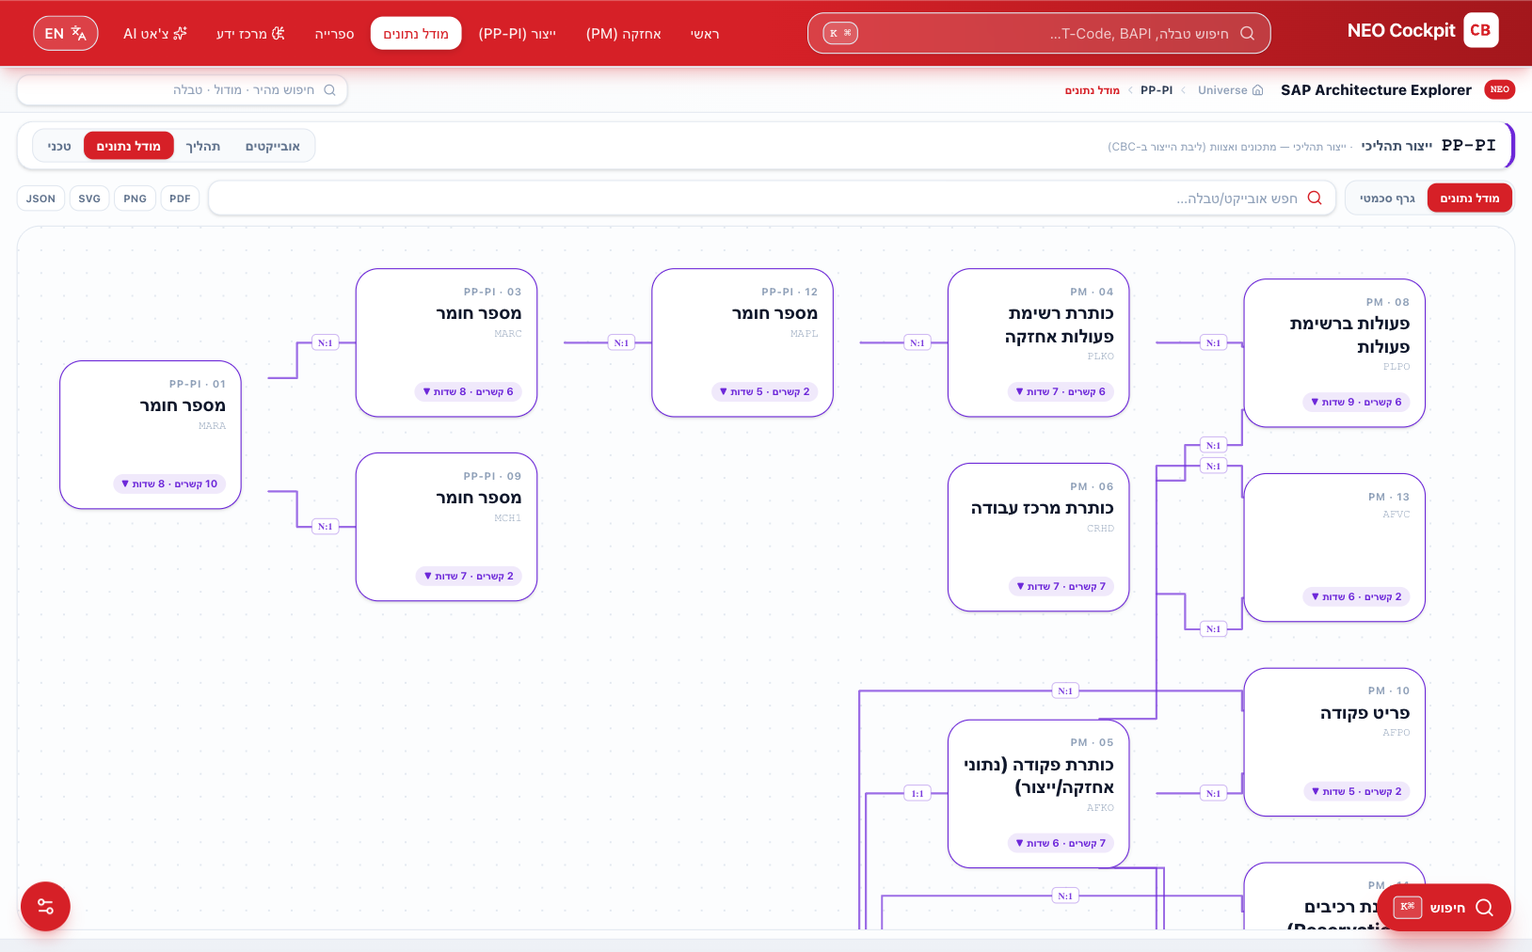
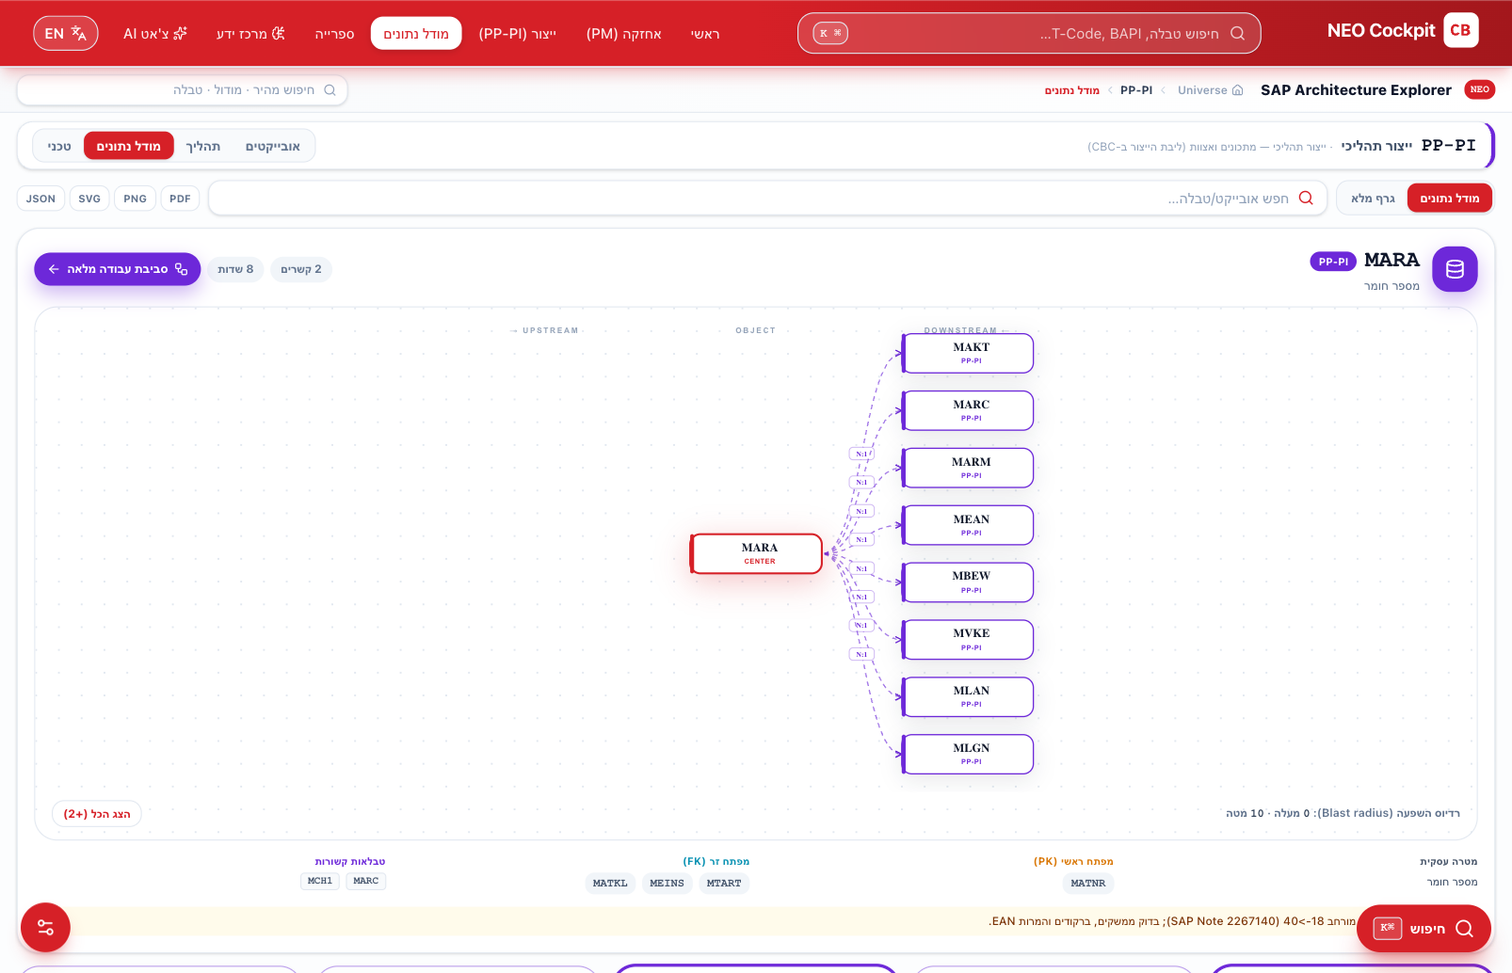
data-model: match Object-page quality — centered relationship graph
Reuse the Object page's relationship map as the Data Model's primary view
(one shared visual language, no new one):
- new components/relationship-graph.tsx (extracted, premium nodes): centered
  UPSTREAM → OBJECT → DOWNSTREAM, clean dashed arrows, 1:1 / N:1 labels,
  blast-radius caption — no scattered layout
- focus panel: selected table header + the centered graph + business purpose +
  PK/FK + related tables + "full workspace" (drawer)
- premium Object-style card picker below; selecting highlights the table +
  related, dims the rest; click a selected card → full Object drawer (L3);
  clicking a graph node re-centers
- drop dagre scatter layout
Verified PP + PP-PI · 0 console errors · build clean · 0 external.

diff --git a/app/sap-infrastructure/page.tsx b/app/sap-infrastructure/page.tsx
@@ -4,7 +4,7 @@ import { useEffect, useMemo, useRef, useState, useCallback } from "react";
 import { Search, ChevronLeft, Home, ZoomIn, ZoomOut, X, KeyRound, Link2, Expand, Shrink, Scan, Maximize2, GripVertical, ArrowLeft, Hand, ChevronDown, Database, GitBranch, Workflow } from "lucide-react";
 import { MOD_PURPOSE, MOD_FLOW, MOD_REPORTS, genExampleRecords, ERD_MODULES, TECH_FIELDS, FIELDS_PLUS, OBJECTS } from "./meta";
 import { Highlight } from "@/components/highlight";
-import dagre from "dagre";
+import { RelationshipGraph } from "@/components/relationship-graph";
 
 const BASE = "/sap-infrastructure";
 type Field = [string, string, string, string];
@@ -277,140 +277,92 @@ type Mode = typeof MODES[number][0];
 const orderFields = (tf: Field[]) => [...tf.filter((f) => f[3] === "PK"), ...tf.filter((f) => f[3] === "FK"), ...tf.filter((f) => f[3] !== "PK" && f[3] !== "FK")];
 
 /* ===================== DATA MODEL — Object Explorer (square cards + relationship map) ===================== */
-type Line = { x1: number; y1: number; x2: number; y2: number };
-const CARDW = 176, CARDH = 144; // w-44 h-36
-type ErdEdge = { a: string; b: string; points: { x: number; y: number }[]; label: string };
-// professional layered ERD layout via dagre (parent→child, crossing-minimised, orthogonal routing)
-function erdLayout(nodes: string[], rels: { a: string; b: string; label: string }[]) {
-  const g = new dagre.graphlib.Graph();
-  g.setGraph({ rankdir: "LR", nodesep: 34, ranksep: 110, marginx: 40, marginy: 40, ranker: "network-simplex" });
-  g.setDefaultEdgeLabel(() => ({}));
-  nodes.forEach((n) => g.setNode(n, { width: CARDW, height: CARDH }));
-  const seen = new Set<string>(); const meta: Record<string, string> = {};
-  rels.forEach(({ a, b, label }) => { if (a === b || !g.hasNode(a) || !g.hasNode(b)) return; const k = a + "" + b; if (seen.has(k)) return; seen.add(k); meta[k] = label; g.setEdge(a, b); });
-  dagre.layout(g);
-  const pos: Record<string, { x: number; y: number }> = {};
-  nodes.forEach((n) => { const nd = g.node(n); if (nd) pos[n] = { x: nd.x - CARDW / 2, y: nd.y - CARDH / 2 }; });
-  const gg = g.graph();
-  const edges: ErdEdge[] = g.edges().map((e) => { const ed = g.edge(e); return { a: e.v, b: e.w, points: (ed.points || []) as { x: number; y: number }[], label: meta[e.v + "" + e.w] || "" }; });
-  return { pos, w: Math.ceil(gg.width || 800) + 20, h: Math.ceil(gg.height || 600) + 20, edges };
-}
-// orthogonal (step) path through dagre waypoints — ERWin/PowerDesigner look
-function orthoPath(pts: { x: number; y: number }[]) {
-  if (pts.length < 2) return "";
-  let d = `M${pts[0].x},${pts[0].y}`;
-  for (let i = 1; i < pts.length; i++) { const p = pts[i - 1], q = pts[i]; const mx = (p.x + q.x) / 2; d += ` L${mx},${p.y} L${mx},${q.y} L${q.x},${q.y}`; }
-  return d;
-}
+const CARDW = 176; // w-44
 
 function DataModelExplorer({ data, color, code, byName, onTable, erdMode, setErdMode }: { data: Data; color: (m?: string | null) => string; code: string; byName: Record<string, Tbl>; onTable: (t: string) => void; erdMode: string; setErdMode: (m: "cards" | "graph") => void }) {
   const c = color(code);
   const [q, setQ] = useState("");
-  const [open, setOpen] = useState<string | null>(null);
-  const [hover, setHover] = useState<string | null>(null);
-
   const all = useMemo(() => erdMembers(data, code).sort((a, b) => b.degree - a.degree), [data, code]);
   const s = q.trim().toLowerCase();
   const rows = useMemo(() => (s ? all.filter((t) => t.name.toLowerCase().includes(s) || (t.he || "").includes(q) || (t.en || "").toLowerCase().includes(s) || (t.tcodes || "").toLowerCase().includes(s)) : all), [all, s, q]);
   const present = useMemo(() => new Set(rows.map((t) => t.name)), [rows]);
   const relatedOf = useCallback((name: string) => { const t = byName[name]; return new Set((t?.rel || []).map((r) => r.table).filter((n) => present.has(n))); }, [byName, present]);
+  const [sel, setSel] = useState<string>(all[0]?.name || "");
+  useEffect(() => { if (!rows.find((t) => t.name === sel)) setSel(rows[0]?.name || ""); }, [rows, sel]);
 
-  // directed FK relations (parent→child) with cardinality labels
-  const rels = useMemo(() => {
-    const out: { a: string; b: string; label: string }[] = [];
-    rows.forEach((t) => (t.rel || []).forEach((r) => {
-      if (!present.has(r.table)) return;
-      const a = r.role === "parent" ? t.name : r.table; const b = r.role === "parent" ? r.table : t.name;
-      out.push({ a, b, label: cardKind(r.card || "1:N") });
-    }));
-    return out;
-  }, [rows, present]);
-  const layout = useMemo(() => erdLayout(rows.map((t) => t.name), rels), [rows, rels]);
-  // focus mode: clicking (open) or hovering a table highlights first-level neighbours only
-  const focusName = open || hover;
-  const focusSet = focusName ? new Set<string>([focusName, ...relatedOf(focusName)]) : null;
-  const related = focusName ? relatedOf(focusName) : null;
+  const selT = byName[sel];
+  const rel = sel ? relatedOf(sel) : new Set<string>();
+  const pk = selT ? selT.fields.filter((f) => f[3] === "PK") : [];
+  const fk = selT ? selT.fields.filter((f) => f[3] === "FK") : [];
 
   return (
-    <div className="space-y-2.5">
-      {/* single unified toolbar: mode toggle · search · exports */}
+    <div className="space-y-3">
+      {/* unified toolbar: mode toggle · search · exports */}
       <div className="flex flex-wrap items-center gap-2">
         <div className="inline-flex shrink-0 rounded-lg border border-slate-200 bg-slate-50 p-0.5">
           <button onClick={() => setErdMode("cards")} className={`rounded-md px-3 py-1.5 text-xs font-bold transition ${erdMode === "cards" ? "bg-[#d62027] text-white shadow-sm" : "text-slate-500 hover:text-slate-900"}`}>מודל נתונים</button>
-          <button onClick={() => setErdMode("graph")} className={`rounded-md px-3 py-1.5 text-xs font-bold transition ${(erdMode as string) === "graph" ? "bg-[#d62027] text-white shadow-sm" : "text-slate-500 hover:text-slate-900"}`}>גרף סכמטי</button>
+          <button onClick={() => setErdMode("graph")} className={`rounded-md px-3 py-1.5 text-xs font-bold transition ${(erdMode as string) === "graph" ? "bg-[#d62027] text-white shadow-sm" : "text-slate-500 hover:text-slate-900"}`}>גרף מלא</button>
         </div>
         <div className="flex min-w-[200px] flex-1 items-center gap-2 rounded-lg border border-slate-200 bg-white px-3 py-1.5 shadow-sm focus-within:border-[#d62027]/40">
           <Search className="size-4 shrink-0 text-[#d62027]" />
-          <input value={q} onChange={(e) => { setQ(e.target.value); setOpen(null); }} placeholder="חפש אובייקט/טבלה…" className="h-5 w-full bg-transparent text-sm outline-none placeholder:text-slate-400" />
+          <input value={q} onChange={(e) => setQ(e.target.value)} placeholder="חפש אובייקט/טבלה…" className="h-5 w-full bg-transparent text-sm outline-none placeholder:text-slate-400" />
           {q && <span className="shrink-0 rounded-md bg-[#d62027]/10 px-1.5 text-xs font-extrabold text-[#d62027]">{rows.length}</span>}
         </div>
         <ExportBar />
       </div>
 
-      {/* ERD canvas — auto graph layout */}
-      <div className="overflow-auto rounded-2xl border border-slate-200 bg-[radial-gradient(circle_at_1px_1px,#e2e8f0_1px,transparent_0)] [background-size:22px_22px]" style={{ maxHeight: "74vh" }}>
-        <div className="relative" style={{ width: layout.w, height: layout.h, minWidth: "100%" }}>
-          {/* FK connectors — orthogonal routing + cardinality labels */}
-          <svg className="pointer-events-none absolute inset-0" width={layout.w} height={layout.h} aria-hidden>
-            {layout.edges.map((e, i) => {
-              const pts = e.points; if (pts.length < 2) return null;
-              const on = focusName ? (e.a === focusName || e.b === focusName) : true;
-              const end = pts[pts.length - 1], prev = pts[pts.length - 2];
-              const ang = Math.atan2(end.y - prev.y, end.x - prev.x);
-              const mid = pts[Math.floor(pts.length / 2)];
-              return (
-                <g key={i} opacity={focusName ? (on ? 1 : 0.1) : 0.9}>
-                  <path d={orthoPath(pts)} fill="none" stroke={c} strokeWidth={on ? 2 : 1.3} strokeOpacity={on ? 0.75 : 0.5} strokeLinejoin="round" strokeLinecap="round" />
-                  {/* crow's-foot-ish arrow at child end */}
-                  <path d={`M${end.x},${end.y} L${end.x - 9 * Math.cos(ang - 0.45)},${end.y - 9 * Math.sin(ang - 0.45)} M${end.x},${end.y} L${end.x - 9 * Math.cos(ang + 0.45)},${end.y - 9 * Math.sin(ang + 0.45)}`} stroke={c} strokeWidth={on ? 2 : 1.3} fill="none" strokeLinecap="round" />
-                  {e.label && (on || !focusName) && <g><rect x={mid.x - 13} y={mid.y - 8} width={26} height={15} rx={4} fill="#fff" stroke={c} strokeOpacity={0.35} /><text x={mid.x} y={mid.y + 3} textAnchor="middle" style={{ font: "700 9px ui-monospace", fill: c }}>{e.label}</text></g>}
-                </g>
-              );
-            })}
-          </svg>
-
-          {rows.map((t, idx) => {
-            const pos = layout.pos[t.name]; if (!pos) return null;
-            const isOpen = open === t.name;
-            const pk = t.fields.filter((f) => f[3] === "PK"), fk = t.fields.filter((f) => f[3] === "FK");
-            const rels = t.rel || [];
-            const isRel = related?.has(t.name);
-            const dim = focusSet && !focusSet.has(t.name);
-            return (
-              <div key={t.name} style={{ position: "absolute", left: pos.x, top: pos.y, width: CARDW }}
-                onMouseEnter={() => !open && setHover(t.name)} onMouseLeave={() => setHover((h) => (h === t.name ? null : h))}
-                className={`${isOpen ? "z-30" : isRel ? "z-20" : "z-10"} transition-opacity duration-200 ${dim ? "opacity-40" : "opacity-100"}`}>
-                {/* L1 — card (design unchanged) */}
-                <button onClick={() => { setOpen(isOpen ? null : t.name); setHover(null); }}
-                  style={{ borderColor: c, ...((isOpen || isRel) ? ({ ["--tw-ring-color"]: c } as React.CSSProperties) : {}) }}
-                  className={`group flex h-36 w-44 flex-col rounded-2xl border bg-white p-3.5 text-right shadow-sm transition-all duration-300 hover:-translate-y-1 hover:shadow-lg ${isOpen || isRel ? "ring-2" : ""}`}>
-                  <span className="text-[10px] font-bold uppercase tracking-wider text-slate-400">{String(idx + 1).padStart(2, "0")} · {t.mod}</span>
-                  <span className="mt-0.5 line-clamp-2 text-lg font-extrabold leading-tight text-slate-900"><Highlight text={t.he || t.en} query={q} /></span>
-                  <span className="tech text-[11px] text-slate-400" dir="ltr"><Highlight text={t.name} query={q} /></span>
-                  <span className="mt-auto inline-flex items-center gap-1 self-start rounded-full px-2 py-0.5 text-[10px] font-bold" style={{ background: c + "1a", color: c }}>
-                    {rels.length} קשרים · {t.fields.length} שדות {isOpen ? "▲" : "▼"}
-                  </span>
-                </button>
-
-                {/* L2 — panel below card (design unchanged) */}
-                {isOpen && (
-                  <div className="absolute start-0 top-full z-40 mt-2 w-44 space-y-2 rounded-xl border border-slate-200 bg-white p-3 shadow-xl" style={{ animation: "fadeUp .3s ease both" }}>
-                    <Field2 label="מפתח ראשי (PK)" tone="#d97706">{pk.length ? pk.map((f) => <Chip2 key={f[0]} q={q}>{f[0]}</Chip2>) : <Dash />}</Field2>
-                    <Field2 label="מפתח זר (FK)" tone="#0891b2">{fk.length ? fk.map((f) => <Chip2 key={f[0]} q={q}>{f[0]}</Chip2>) : <Dash />}</Field2>
-                    <Field2 label="שדות עיקריים" tone="#475569">{t.fields.slice(0, 6).map((f) => <Chip2 key={f[0]} q={q}>{f[0]}</Chip2>)}</Field2>
-                    <Field2 label="קשרים" tone={c}>{rels.length ? rels.slice(0, 6).map((r) => (
-                      <button key={r.role + r.table} onClick={() => byName[r.table] && onTable(r.table)} className="tech rounded border border-slate-200 bg-slate-50 px-1.5 text-[10px] font-bold text-slate-600 transition hover:text-[#d62027]" dir="ltr">{r.role === "parent" ? "↓" : "↑"}<Highlight text={r.table} query={q} /></button>
-                    )) : <Dash />}</Field2>
-                    {t.s4 && <p className="line-clamp-2 rounded bg-amber-50 px-2 py-1 text-[10px] font-medium text-amber-900"><span className="font-bold">S/4: </span><Highlight text={t.s4} query={q} /></p>}
-                    <button onClick={() => onTable(t.name)} className="tap inline-flex w-full items-center justify-center gap-1 rounded-lg px-2.5 py-1.5 text-[11px] font-bold text-white shadow" style={{ background: c }}>
-                      <Workflow className="size-3" />סביבת עבודה מלאה<ArrowLeft className="size-3" />
-                    </button>
-                  </div>
-                )}
+      {/* FOCUS PANEL — Object-page quality relationship map for the selected table */}
+      {selT && (
+        <div className="space-y-3 rounded-2xl border border-slate-200 bg-white p-4 shadow-sm" style={{ animation: "fadeUp .3s ease both" }}>
+          <div className="flex flex-wrap items-center justify-between gap-3">
+            <div className="flex items-center gap-3">
+              <span className="grid size-11 place-items-center rounded-xl text-white shadow-lg" style={{ background: c, boxShadow: `0 8px 20px ${c}55` }}><Database className="size-5" /></span>
+              <div>
+                <div className="flex items-center gap-2"><span className="tech text-xl font-extrabold text-slate-900" dir="ltr">{sel}</span><span className="rounded-full px-2 py-0.5 text-[10px] font-bold text-white" style={{ background: c }}>{selT.mod}</span></div>
+                <p className="text-xs text-slate-500"><Highlight text={selT.he || selT.en} query={q} /></p>
               </div>
-            );
-          })}
+            </div>
+            <div className="flex items-center gap-1.5">
+              <span className="rounded-full bg-slate-100 px-2.5 py-1 text-[11px] font-bold text-slate-500">{rel.size} קשרים</span>
+              <span className="rounded-full bg-slate-100 px-2.5 py-1 text-[11px] font-bold text-slate-500">{selT.fields.length} שדות</span>
+              <button onClick={() => onTable(sel)} className="lift inline-flex items-center gap-1.5 rounded-xl px-3 py-2 text-xs font-bold text-white shadow-lg" style={{ background: c, boxShadow: `0 8px 18px ${c}55` }}><Workflow className="size-3.5" />סביבת עבודה מלאה<ArrowLeft className="size-3.5" /></button>
+            </div>
+          </div>
+
+          <RelationshipGraph name={sel} onGo={setSel} />
+
+          <div className="grid gap-3 lg:grid-cols-4">
+            <Field2 label="מטרה עסקית" tone="#475569"><span className="text-[11px] font-medium text-slate-600">{selT.he || selT.en}</span></Field2>
+            <Field2 label="מפתח ראשי (PK)" tone="#d97706">{pk.length ? pk.map((f) => <Chip2 key={f[0]} q={q}>{f[0]}</Chip2>) : <Dash />}</Field2>
+            <Field2 label="מפתח זר (FK)" tone="#0891b2">{fk.length ? fk.map((f) => <Chip2 key={f[0]} q={q}>{f[0]}</Chip2>) : <Dash />}</Field2>
+            <Field2 label="טבלאות קשורות" tone={c}>{rel.size ? [...rel].slice(0, 8).map((n) => (
+              <button key={n} onClick={() => setSel(n)} className="tech rounded border border-slate-200 bg-slate-50 px-1.5 text-[10px] font-bold text-slate-600 transition hover:text-[#d62027]" dir="ltr">{n}</button>
+            )) : <Dash />}</Field2>
+          </div>
+          {selT.s4 && <p className="rounded-lg bg-amber-50 px-2.5 py-1.5 text-[11px] font-medium text-amber-900"><span className="font-bold">ECC → S/4: </span><Highlight text={selT.s4} query={q} /></p>}
         </div>
+      )}
+
+      {/* TABLE PICKER — premium Object-style cards; selected + related highlighted, rest dimmed */}
+      <div className="grid grid-cols-2 gap-3 sm:grid-cols-3 lg:grid-cols-4 xl:grid-cols-5">
+        {rows.map((t, idx) => {
+          const isSel = t.name === sel;
+          const isRel = rel.has(t.name);
+          const dim = sel && !isSel && !isRel;
+          const rc = t.rel || [];
+          return (
+            <button key={t.name} onClick={() => (isSel ? onTable(t.name) : setSel(t.name))}
+              style={{ borderColor: c, ...((isSel || isRel) ? ({ ["--tw-ring-color"]: c } as React.CSSProperties) : {}) }}
+              className={`group flex h-36 w-full flex-col rounded-2xl border bg-white p-3.5 text-right shadow-sm transition-all duration-300 hover:-translate-y-1 hover:shadow-lg ${isSel || isRel ? "ring-2" : ""} ${dim ? "opacity-45" : "opacity-100"}`}>
+              <span className="text-[10px] font-bold uppercase tracking-wider text-slate-400">{String(idx + 1).padStart(2, "0")} · {t.mod}</span>
+              <span className="mt-0.5 line-clamp-2 text-lg font-extrabold leading-tight text-slate-900"><Highlight text={t.he || t.en} query={q} /></span>
+              <span className="tech text-[11px] text-slate-400" dir="ltr"><Highlight text={t.name} query={q} /></span>
+              <span className="mt-auto inline-flex items-center gap-1 self-start rounded-full px-2 py-0.5 text-[10px] font-bold" style={{ background: c + "1a", color: c }}>
+                {rc.length} קשרים · {t.fields.length} שדות {isSel ? "● נבחר" : ""}
+              </span>
+            </button>
+          );
+        })}
       </div>
     </div>
   );

diff --git a/components/relationship-graph.tsx b/components/relationship-graph.tsx
@@ -1,0 +1,70 @@
+"use client";
+
+import { useMemo, useState } from "react";
+import { kgraph, tableByName } from "@/lib/knowledge-graph";
+
+const MOD_COLOR: Record<string, string> = { PM: "#f97316", "PP-PI": "#6d28d9", PP: "#6d28d9", QM: "#0d9488" };
+const mc = (m: string) => MOD_COLOR[m] || "#64748b";
+const RED = "#d62027";
+
+// Centered upstream → OBJECT → downstream relationship map (Object-page graph).
+// Reused by the Object workspace and the Data Model explorer for one visual language.
+export function RelationshipGraph({ name, onGo }: { name: string; onGo: (n: string) => void }) {
+  const g = useMemo(() => kgraph(name), [name]);
+  const [exp, setExp] = useState(false);
+  if (!g) return <div className="rounded-2xl border border-dashed border-slate-200 bg-white p-8 text-center text-sm text-slate-400" dir="rtl">אין מפת קשרים זמינה לאובייקט זה.</div>;
+  const CAP = 8;
+  const up = exp ? g.upstream : g.upstream.slice(0, CAP);
+  const down = exp ? g.downstream : g.downstream.slice(0, CAP);
+  const upMore = g.upstream.length - up.length, downMore = g.downstream.length - down.length;
+  const cardUp = (n: string) => g.edges.find((e) => e.from === n && e.to === g.center.tableName)?.card || "1:N";
+  const cardDown = (n: string) => g.edges.find((e) => e.from === g.center.tableName && e.to === n)?.card || "1:N";
+  const W = 820, rowH = 64, padY = 48;
+  const H = Math.max(up.length, down.length, 1) * rowH + padY * 2;
+  const cx = W / 2, cy = H / 2;
+  const colX = { up: 140, down: W - 140 };
+  const yFor = (i: number, n: number) => padY + (H - padY * 2) * (n === 1 ? 0.5 : i / (n - 1));
+  const NW = 168, NH = 50;
+  const c = mc(g.center.module);
+
+  const Node = ({ x, y, label, module, exists, center }: { x: number; y: number; label: string; module: string; exists: boolean; center?: boolean }) => {
+    const col = center ? RED : mc(module);
+    return (
+      <g transform={`translate(${x - NW / 2},${y - NH / 2})`} style={{ cursor: exists ? "pointer" : "default" }} onClick={() => exists && onGo(label)}>
+        <rect width={NW} height={NH} rx={13} fill="#fff" stroke={col} strokeWidth={center ? 2.5 : 1.6} style={{ filter: center ? `drop-shadow(0 10px 20px ${col}44)` : "drop-shadow(0 6px 14px rgba(15,23,42,.10))" }} />
+        <rect width={5} height={NH} rx={2.5} fill={col} />
+        <text x={NW / 2 + 5} y={NH / 2 - 3} textAnchor="middle" style={{ font: "800 15px ui-monospace", fill: "#0f172a" }}>{label}</text>
+        <text x={NW / 2 + 5} y={NH / 2 + 13} textAnchor="middle" style={{ font: "700 9px sans-serif", letterSpacing: ".06em", fill: col }}>{center ? "CENTER" : module}</text>
+      </g>
+    );
+  };
+
+  return (
+    <div className="overflow-x-auto rounded-2xl border border-slate-200 bg-[radial-gradient(circle_at_1px_1px,#e2e8f0_1px,transparent_0)] [background-size:22px_22px] p-2">
+      <svg viewBox={`0 0 ${W} ${H}`} width="100%" style={{ minWidth: 620, maxHeight: 460 }}>
+        <text x={colX.up} y={22} textAnchor="middle" style={{ font: "800 10px sans-serif", fill: "#94a3b8", letterSpacing: "2px" }}>UPSTREAM →</text>
+        <text x={cx} y={22} textAnchor="middle" style={{ font: "800 10px sans-serif", fill: "#94a3b8", letterSpacing: "2px" }}>OBJECT</text>
+        <text x={colX.down} y={22} textAnchor="middle" style={{ font: "800 10px sans-serif", fill: "#94a3b8", letterSpacing: "2px" }}>← DOWNSTREAM</text>
+        {up.map((n, i) => { const y = yFor(i, up.length); const x1 = colX.up + NW / 2, x2 = cx - NW / 2, mx = (x1 + x2) / 2; const my = (y + cy) / 2; return (
+          <g key={"u" + n}><path d={`M${x1},${y} C${mx},${y} ${mx},${cy} ${x2},${cy}`} fill="none" stroke={c} strokeWidth={1.7} strokeOpacity={0.6} strokeDasharray="6 5"><animate attributeName="stroke-dashoffset" from="0" to="-110" dur="3s" repeatCount="indefinite" /></path>
+            <path d={`M${x2 - 8},${cy - 4} L${x2},${cy} L${x2 - 8},${cy + 4}`} fill="none" stroke={c} strokeWidth={1.7} />
+            <rect x={mx - 16} y={my - 8} width={32} height={16} rx={5} fill="#fff" stroke={c} strokeOpacity={0.4} /><text x={mx} y={my + 3.5} textAnchor="middle" style={{ font: "800 9px ui-monospace", fill: c }}>{cardUp(n)}</text></g>); })}
+        {down.map((n, i) => { const y = yFor(i, down.length); const x1 = cx + NW / 2, x2 = colX.down - NW / 2, mx = (x1 + x2) / 2; const my = (y + cy) / 2; const dc = mc(tableByName(n)?.module || "?"); return (
+          <g key={"d" + n}><path d={`M${x1},${cy} C${mx},${cy} ${mx},${y} ${x2},${y}`} fill="none" stroke={dc} strokeWidth={1.7} strokeOpacity={0.6} strokeDasharray="6 5"><animate attributeName="stroke-dashoffset" from="0" to="-110" dur="3s" repeatCount="indefinite" /></path>
+            <path d={`M${x2 - 8},${y - 4} L${x2},${y} L${x2 - 8},${y + 4}`} fill="none" stroke={dc} strokeWidth={1.7} />
+            <rect x={mx - 16} y={my - 8} width={32} height={16} rx={5} fill="#fff" stroke={dc} strokeOpacity={0.4} /><text x={mx} y={my + 3.5} textAnchor="middle" style={{ font: "800 9px ui-monospace", fill: dc }}>{cardDown(n)}</text></g>); })}
+        {up.map((n, i) => <Node key={n} x={colX.up} y={yFor(i, up.length)} label={n} module={tableByName(n)?.module || "?"} exists={!!tableByName(n)} />)}
+        {down.map((n, i) => <Node key={n} x={colX.down} y={yFor(i, down.length)} label={n} module={tableByName(n)?.module || "?"} exists={!!tableByName(n)} />)}
+        <Node x={cx} y={cy} label={g.center.tableName} module={g.center.module} exists center />
+      </svg>
+      <div className="flex flex-wrap items-center justify-between gap-2 px-2 pb-1 pt-2">
+        <span className="text-[11px] font-semibold text-slate-500">רדיוס השפעה (Blast radius): <span className="font-mono font-bold text-slate-700">{g.upstream.length}</span> מעלה · <span className="font-mono font-bold text-slate-700">{g.downstream.length}</span> מטה</span>
+        {(upMore > 0 || downMore > 0 || exp) && (
+          <button onClick={() => setExp((v) => !v)} className="tap rounded-lg border border-slate-200 bg-white px-2.5 py-1 text-[11px] font-bold text-brand transition hover:border-brand">
+            {exp ? "הצג פחות" : `הצג הכל (+${upMore + downMore})`}
+          </button>
+        )}
+      </div>
+    </div>
+  );
+}
